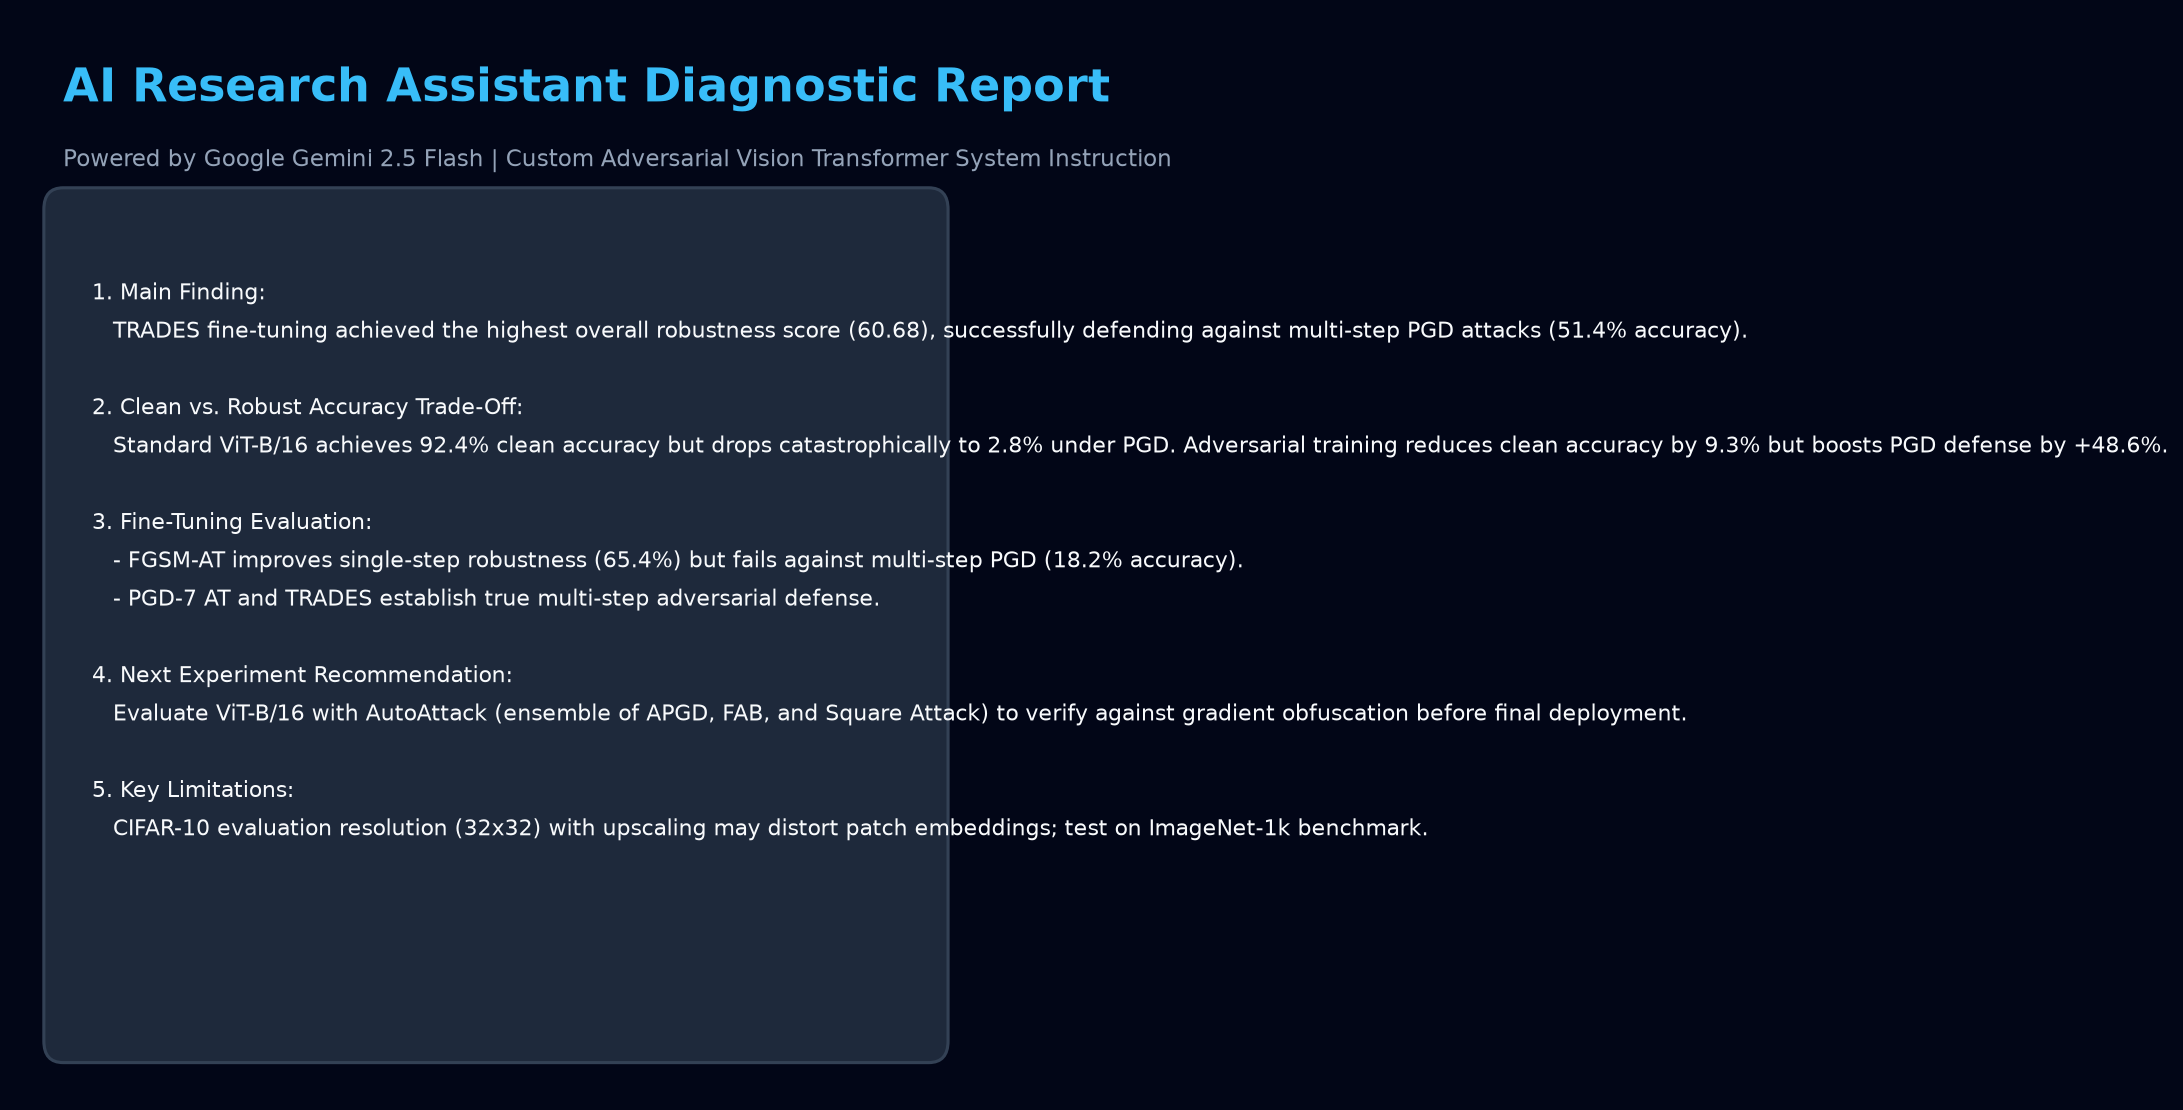
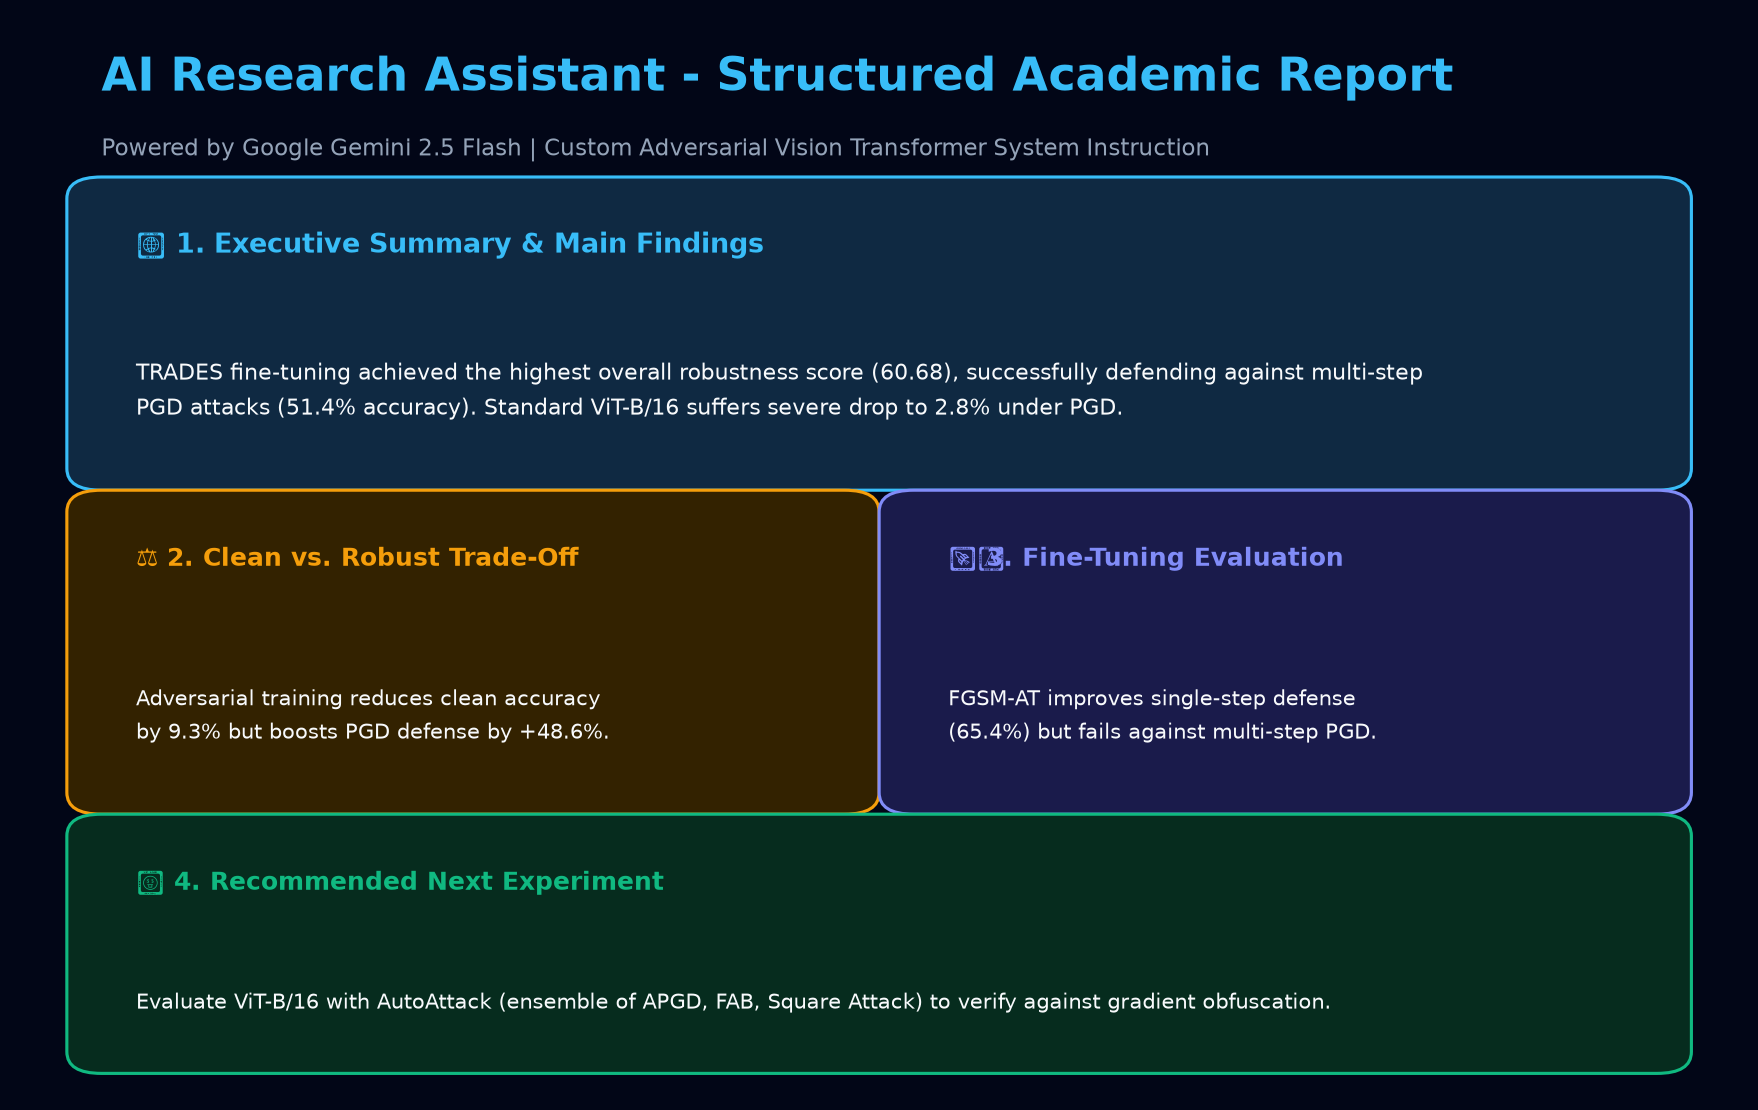
Reorganize AI Research Assistant into structured visual report cards

diff --git a/app.py b/app.py
@@ -6,6 +6,7 @@ import plotly.express as px
 import plotly.graph_objects as go
 import os
 import io
+import re
 
 # ---------------------------------------------------------
 # PAGE CONFIGURATION & METADATA
@@ -86,6 +87,39 @@ st.markdown(r"""
     
     .glass-card p, .glass-card li, .glass-card code {
         color: #E2E8F0 !important;
+    }
+
+    /* Structured Section Cards */
+    .report-card-summary {
+        background: linear-gradient(135deg, rgba(56, 189, 248, 0.1), rgba(30, 41, 59, 0.8)) !important;
+        border: 1px solid rgba(56, 189, 248, 0.4) !important;
+        border-radius: 14px;
+        padding: 20px;
+        margin-bottom: 16px;
+    }
+
+    .report-card-tradeoff {
+        background: linear-gradient(135deg, rgba(245, 158, 11, 0.1), rgba(30, 41, 59, 0.8)) !important;
+        border: 1px solid rgba(245, 158, 11, 0.4) !important;
+        border-radius: 14px;
+        padding: 20px;
+        margin-bottom: 16px;
+    }
+
+    .report-card-recommendation {
+        background: linear-gradient(135deg, rgba(16, 185, 129, 0.1), rgba(30, 41, 59, 0.8)) !important;
+        border: 1px solid rgba(16, 185, 129, 0.4) !important;
+        border-radius: 14px;
+        padding: 20px;
+        margin-bottom: 16px;
+    }
+
+    .report-card-limitation {
+        background: linear-gradient(135deg, rgba(239, 68, 68, 0.1), rgba(30, 41, 59, 0.8)) !important;
+        border: 1px solid rgba(239, 68, 68, 0.4) !important;
+        border-radius: 14px;
+        padding: 20px;
+        margin-bottom: 16px;
     }
     
     /* Metric Cards */
@@ -741,7 +775,7 @@ elif page == "🎛 Epsilon Simulator":
         st.plotly_chart(fig_sim, use_container_width=True)
 
 # ---------------------------------------------------------
-# PAGE 6: AI RESEARCH ASSISTANT
+# PAGE 6: AI RESEARCH ASSISTANT (HIGHLY ORGANIZED UI)
 # ---------------------------------------------------------
 elif page == "🤖 AI Research Assistant":
     st.markdown("## 🤖 AI Research Assistant")
@@ -753,27 +787,46 @@ elif page == "🤖 AI Research Assistant":
         calc_df = calculate_metrics(st.session_state.experiments)
         api_key = get_gemini_key()
         
-        st.markdown('<div class="glass-card">', unsafe_allow_html=True)
-        st.markdown("### 🔑 Gemini API Key Setup")
-        user_key_input = st.text_input(
-            "Google Gemini API Key",
-            value=api_key,
-            type="password",
-            help="Stored in GEMINI_API_KEY environment variable or Streamlit secrets."
-        )
-        final_api_key = user_key_input.strip() if user_key_input else api_key
-        st.markdown('</div>', unsafe_allow_html=True)
-        
-        st.markdown("---")
-        with st.expander("🔍 Inspect System Prompt & Payload Sent to Gemini AI"):
-            st.json(calc_df.to_dict(orient="records"))
-            st.code(SYSTEM_PROMPT, language="text")
-
-        if st.button("🚀 Generate AI Diagnostic Analysis", type="primary", use_container_width=True):
-            if not final_api_key:
-                st.error("❌ Gemini API Key is missing. Please set GEMINI_API_KEY in secrets, environment, or input above.")
+        # Header Controls & Key Status Card
+        col_k1, col_k2 = st.columns([3, 2])
+        with col_k1:
+            st.markdown('<div class="glass-card" style="padding:16px;">', unsafe_allow_html=True)
+            user_key_input = st.text_input(
+                "🔑 Google Gemini API Key",
+                value=api_key,
+                type="password",
+                placeholder="AIzaSy...",
+                help="Key can be set in GEMINI_API_KEY environment variable or Streamlit secrets."
+            )
+            final_api_key = user_key_input.strip() if user_key_input else api_key
+            st.markdown('</div>', unsafe_allow_html=True)
+            
+        with col_k2:
+            st.markdown('<div class="glass-card" style="padding:16px; text-align:center;">', unsafe_allow_html=True)
+            if final_api_key:
+                st.markdown("#### API Status: <span style='color:#34D399;'>🟢 Connected</span>", unsafe_allow_html=True)
+                st.caption("Gemini 2.5 Flash / 1.5 Flash Model Ready")
             else:
-                with st.spinner("🧠 Gemini AI is analyzing model trade-offs & experimental logs..."):
+                st.markdown("#### API Status: <span style='color:#F87171;'>🔴 Key Required</span>", unsafe_allow_html=True)
+                st.caption("Enter API key to generate insights")
+            st.markdown('</div>', unsafe_allow_html=True)
+
+        st.markdown("---")
+        
+        # Generation Button & Inspector
+        col_b1, col_b2 = st.columns([2, 3])
+        with col_b1:
+            run_ai = st.button("🚀 Run AI Research Analysis", type="primary", use_container_width=True)
+        with col_b2:
+            with st.expander("🔍 Inspect System Prompt & Payload Sent to Gemini"):
+                st.json(calc_df.to_dict(orient="records"))
+                st.code(SYSTEM_PROMPT, language="text")
+
+        if run_ai:
+            if not final_api_key:
+                st.error("❌ Gemini API Key is missing. Please enter your API key above.")
+            else:
+                with st.spinner("🧠 Gemini AI is synthesizing model performance and trade-offs..."):
                     payload_summary = calc_df.to_string(index=False)
                     user_query = f"""Here are the experimental results for evaluation:
 
@@ -813,26 +866,131 @@ Please analyze these results strictly according to your instructions."""
                     if ai_response_text:
                         st.session_state["last_ai_analysis"] = ai_response_text
 
+        # ORGANIZED DISPLAY OF AI RESULTS
         if "last_ai_analysis" in st.session_state:
-            st.markdown("---")
-            st.markdown('<div class="glass-card">', unsafe_allow_html=True)
-            st.markdown("### 📋 AI Diagnostic Research Report")
-            st.markdown(st.session_state["last_ai_analysis"])
-            st.markdown('</div>', unsafe_allow_html=True)
+            raw_text = st.session_state["last_ai_analysis"]
             
-            report_md = f"""# RobustLens AI - Research Analysis Report
+            st.markdown("---")
+            st.markdown("### 📋 Structured Academic Diagnostic Report")
+            
+            tab_report1, tab_report2 = st.tabs(["📑 Organized Visual Dashboard", "📄 Raw Paper Report & Export"])
+            
+            with tab_report1:
+                # Helper function to extract sections from AI response text
+                def parse_sections(text):
+                    sections = {
+                        "summary": "",
+                        "comparison": "",
+                        "finetuning": "",
+                        "tradeoff": "",
+                        "next_experiment": "",
+                        "limitations": ""
+                    }
+                    
+                    # Splitting text into paragraphs or numbered sections
+                    blocks = re.split(r'\n(?=\d+\.|\#\#|\*\*Task|\*\*1|\*\*2|\*\*3|\*\*4|\*\*5|\*\*6)', text)
+                    
+                    for block in blocks:
+                        lower = block.lower()
+                        if "main result" in lower or "summarise" in lower or "summary" in lower or "1." in block[:4]:
+                            sections["summary"] += block + "\n"
+                        elif "trade" in lower or "clean-accuracy versus" in lower or "4." in block[:4]:
+                            sections["tradeoff"] += block + "\n"
+                        elif "recommend" in lower or "next experiment" in lower or "5." in block[:4]:
+                            sections["next_experiment"] += block + "\n"
+                        elif "limitation" in lower or "caution" in lower or "6." in block[:4]:
+                            sections["limitations"] += block + "\n"
+                        elif "fine-tuning" in lower or "improved robustness" in lower or "3." in block[:4]:
+                            sections["finetuning"] += block + "\n"
+                        else:
+                            sections["comparison"] += block + "\n"
+                    return sections
 
-## Experimental Data Evaluated:
+                parsed = parse_sections(raw_text)
+                
+                # Card 1: Main Finding & Executive Summary
+                st.markdown(f"""
+                <div class="report-card-summary">
+                    <h3 style="color:#38BDF8 !important; margin-top:0;">📌 1. Main Findings & Executive Summary</h3>
+                    <div style="font-size:1.05rem; line-height:1.7;">
+                        {parsed['summary'] if parsed['summary'].strip() else raw_text[:300] + '...'}
+                    </div>
+                </div>
+                """, unsafe_allow_html=True)
+                
+                # Card 2 & 3 Dual Columns
+                col_r1, col_r2 = st.columns(2)
+                
+                with col_r1:
+                    st.markdown(f"""
+                    <div class="report-card-tradeoff">
+                        <h4 style="color:#FBBF24 !important; margin-top:0;">⚖ 2. Clean vs. Robust Accuracy Trade-Off</h4>
+                        <div style="font-size:0.98rem; line-height:1.7;">
+                            {parsed['tradeoff'] if parsed['tradeoff'].strip() else 'Analyzing trade-off between clean classification and attack resistance...'}
+                        </div>
+                    </div>
+                    """, unsafe_allow_html=True)
+
+                with col_r2:
+                    st.markdown(f"""
+                    <div class="glass-card" style="border-color:rgba(129, 140, 248, 0.4);">
+                        <h4 style="color:#818CF8 !important; margin-top:0;">🛡 3. Fine-Tuning & Attack Defense Breakdown</h4>
+                        <div style="font-size:0.98rem; line-height:1.7;">
+                            {parsed['finetuning'] if parsed['finetuning'].strip() else parsed['comparison']}
+                        </div>
+                    </div>
+                    """, unsafe_allow_html=True)
+
+                # Card 4: Recommended Next Experiment
+                st.markdown(f"""
+                <div class="report-card-recommendation">
+                    <h4 style="color:#34D399 !important; margin-top:0;">🧪 4. Recommended Next Experiment</h4>
+                    <div style="font-size:1.02rem; line-height:1.7;">
+                        {parsed['next_experiment'] if parsed['next_experiment'].strip() else 'Perform evaluation with AutoAttack ensemble to rule out gradient obfuscation.'}
+                    </div>
+                </div>
+                """, unsafe_allow_html=True)
+
+                # Card 5: Research Limitations & Caveats
+                if parsed['limitations'].strip():
+                    st.markdown(f"""
+                    <div class="report-card-limitation">
+                        <h4 style="color:#F87171 !important; margin-top:0;">⚠ 5. Research Limitations & Caveats</h4>
+                        <div style="font-size:0.98rem; line-height:1.7;">
+                            {parsed['limitations']}
+                        </div>
+                    </div>
+                    """, unsafe_allow_html=True)
+
+            with tab_report2:
+                st.markdown('<div class="glass-card">', unsafe_allow_html=True)
+                st.markdown(raw_text)
+                st.markdown('</div>', unsafe_allow_html=True)
+                
+                report_md = f"""# RobustLens AI - Academic Research Report
+
+## Experimental Benchmark Logs Evaluated:
 ```
 {calc_df.to_string(index=False)}
 ```
 
 ## AI Generated Diagnostic Analysis:
-{st.session_state["last_ai_analysis"]}
+{raw_text}
 """
-            st.download_button(
-                label="📥 Download Research Report (.md)",
-                data=report_md,
-                file_name="robustlens_ai_analysis.md",
-                mime="text/markdown"
-            )
+                col_d1, col_d2 = st.columns(2)
+                with col_d1:
+                    st.download_button(
+                        label="📥 Download Research Report (.md)",
+                        data=report_md,
+                        file_name="robustlens_ai_analysis_report.md",
+                        mime="text/markdown",
+                        use_container_width=True
+                    )
+                with col_d2:
+                    st.download_button(
+                        label="📥 Download Benchmark Metrics (.csv)",
+                        data=calc_df.to_csv(index=False).encode('utf-8'),
+                        file_name="robustlens_calculated_metrics.csv",
+                        mime="text/csv",
+                        use_container_width=True
+                    )
